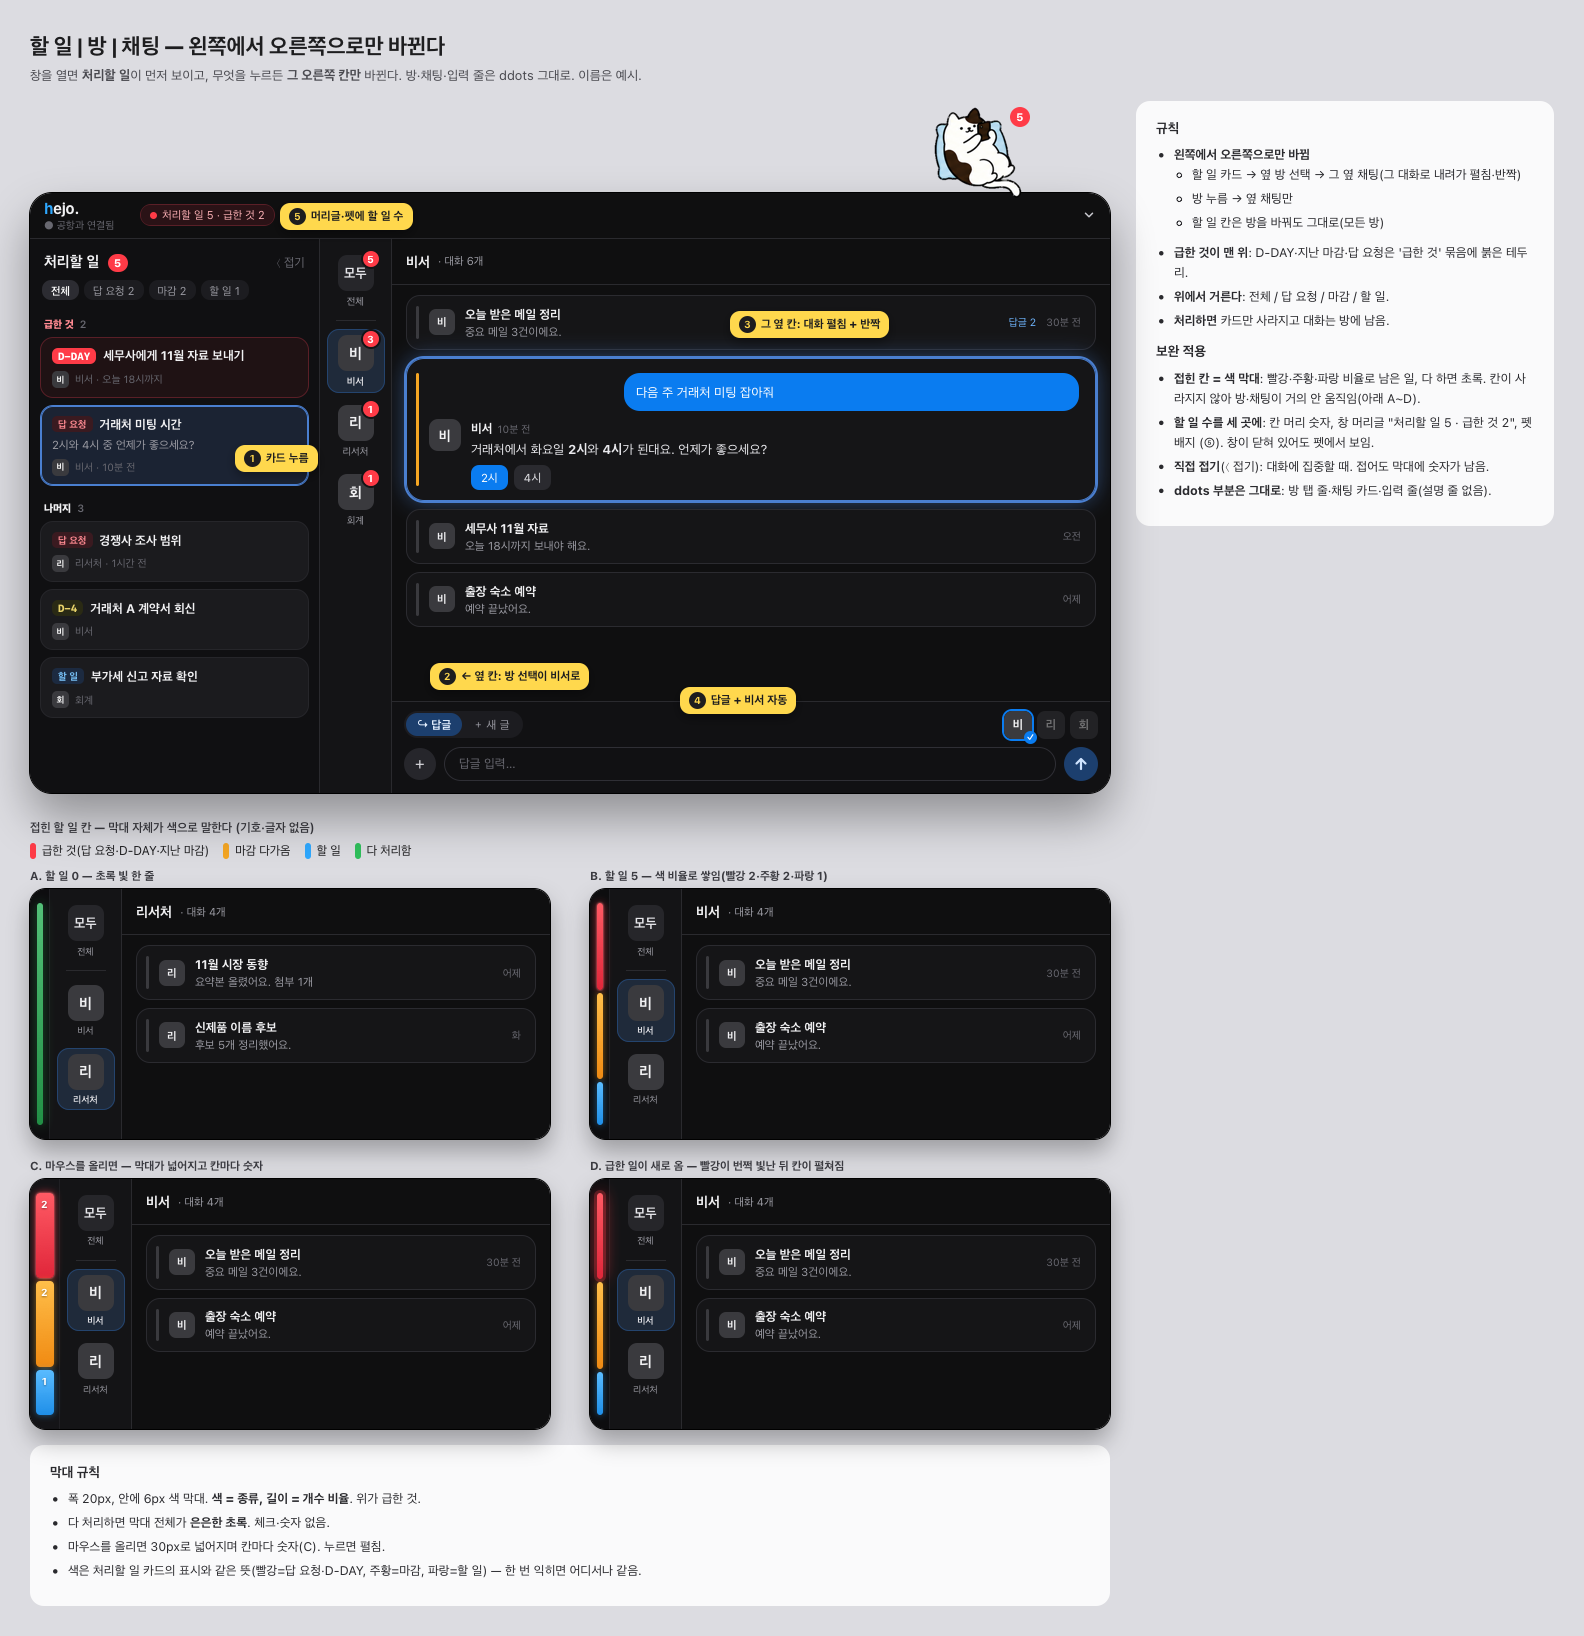
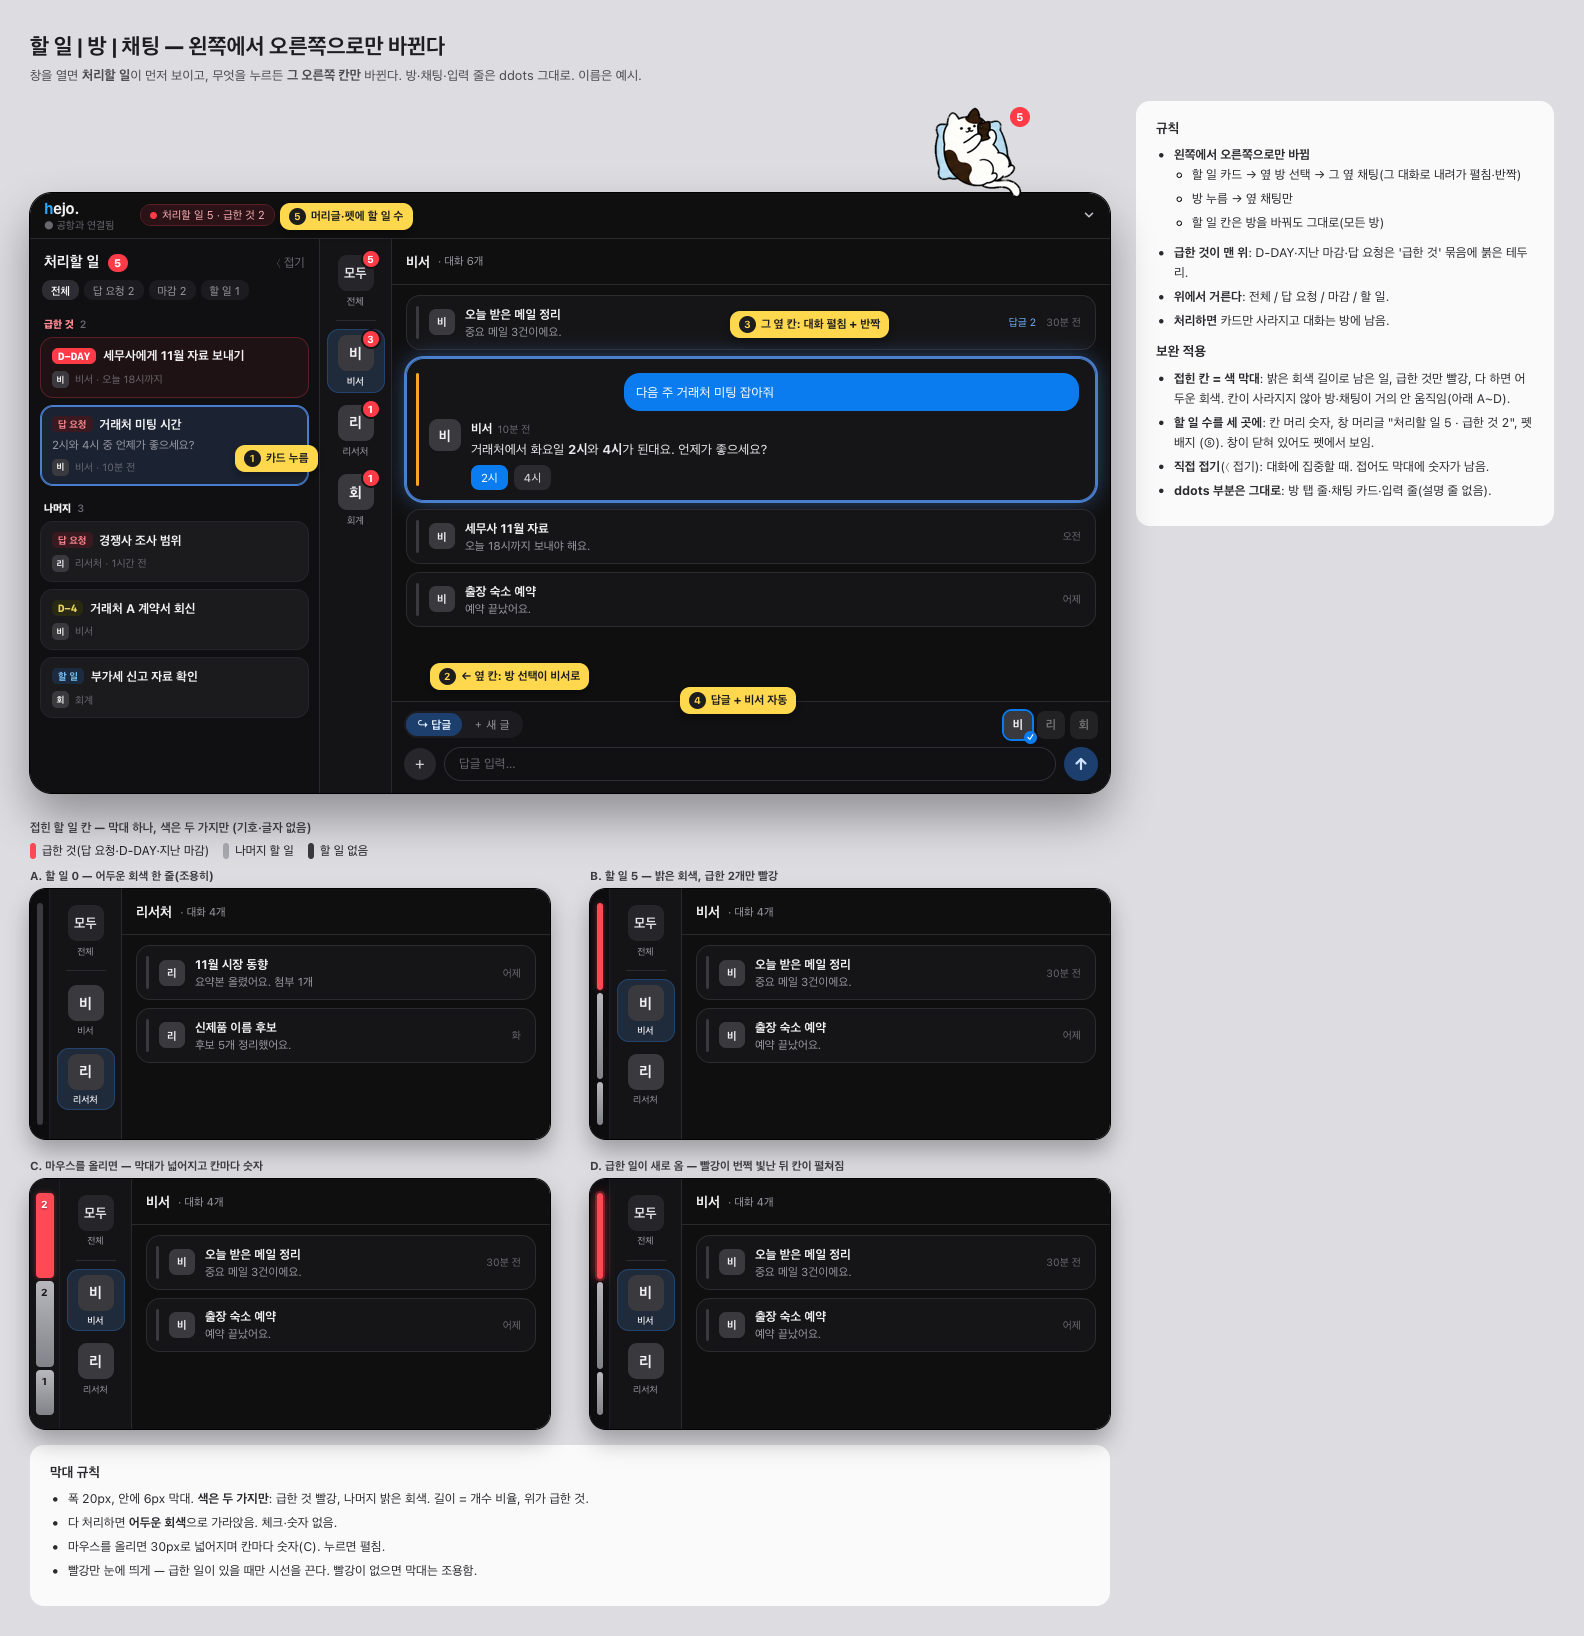
UI 제안 v14 보완: 막대 색을 빨강+회색 두 가지로 절제

diff --git a/docs/changes/HEJO-FOUNDATION-20261114/mockup/hejo-ui-v14-order.html b/docs/changes/HEJO-FOUNDATION-20261114/mockup/hejo-ui-v14-order.html
@@ -220,6 +220,13 @@
   .cr .pulse { box-shadow:0 0 0 3px rgba(255,59,71,.25), 0 0 18px rgba(255,59,71,.95) !important; }
   .keyc { display:flex; gap:14px; flex-wrap:wrap; font-size:12px; margin:4px 0 8px; } .keyc span { display:flex; align-items:center; gap:6px; } .keyc i { width:6px; height:16px; border-radius:3px; }
 </style>
+<style>
+  .cr .sg.org, .cr .sg.sky { background:linear-gradient(180deg,#c9c9d0,#8e8e96); box-shadow:none; opacity:.9; }
+  .cr .sg.red { background:#ff4a55; box-shadow:0 0 6px rgba(255,59,71,.45); }
+  .cr .sg.grn { background:#3a3a40; box-shadow:none; opacity:1; }
+  .cr .pulse { box-shadow:0 0 0 2px rgba(255,59,71,.3), 0 0 12px rgba(255,59,71,.8) !important; }
+  .cr.wide .sg.org, .cr.wide .sg.sky { color:#1d1d1f; text-shadow:none; }
+</style>
 </head>
 <body>
 <h1>할 일 | 방 | 채팅 — 왼쪽에서 오른쪽으로만 바뀐다</h1>
@@ -275,13 +282,13 @@
   <div class="call" style="left:250px;top:10px"><i>5</i>머리글·펫에 할 일 수</div>
 </div>
 
-<p class="cap" style="margin-top:26px">접힌 할 일 칸 — 막대 자체가 색으로 말한다 (기호·글자 없음)</p>
-<div class="keyc"><span><i style="background:#ff3b47"></i>급한 것(답 요청·D-DAY·지난 마감)</span><span><i style="background:#f5a623"></i>마감 다가옴</span><span><i style="background:#2ea8ff"></i>할 일</span><span><i style="background:#2fbf5b"></i>다 처리함</span></div>
+<p class="cap" style="margin-top:26px">접힌 할 일 칸 — 막대 하나, 색은 두 가지만 (기호·글자 없음)</p>
+<div class="keyc"><span><i style="background:#ff4a55"></i>급한 것(답 요청·D-DAY·지난 마감)</span><span><i style="background:#a8a8b0"></i>나머지 할 일</span><span><i style="background:#3a3a40"></i>할 일 없음</span></div>
 <div class="vgrid">
-  <div><div class="lab2">A. 할 일 0 — 초록 빛 한 줄</div><div class="mw"><div class="cr"><div class="bar2" style="height:100%"><div class="sg grn" style="flex:1"></div></div></div>
+  <div><div class="lab2">A. 할 일 0 — 어두운 회색 한 줄(조용히)</div><div class="mw"><div class="cr"><div class="bar2" style="height:100%"><div class="sg grn" style="flex:1"></div></div></div>
     <div class="strip"><div class="tab all"><div class="tile">모두</div>전체</div><div class="sline"></div><div class="tab"><div class="tile">비</div>비서</div><div class="tab sel"><div class="tile">리</div>리서처</div></div>
     <div class="conv2"><div class="colh"><b>리서처</b><small>· 대화 4개</small></div><div class="feed"><div class="fold"><div class="tile">리</div><div class="tx"><b>11월 시장 동향</b><small>요약본 올렸어요. 첨부 1개</small></div><span class="tm">어제</span></div><div class="fold"><div class="tile">리</div><div class="tx"><b>신제품 이름 후보</b><small>후보 5개 정리했어요.</small></div><span class="tm">화</span></div></div></div></div></div>
-  <div><div class="lab2">B. 할 일 5 — 색 비율로 쌓임(빨강 2·주황 2·파랑 1)</div><div class="mw"><div class="cr"><div class="bar2" style="height:100%"><div class="sg red" style="flex:2"></div><div class="sg org" style="flex:2"></div><div class="sg sky" style="flex:1"></div></div></div>
+  <div><div class="lab2">B. 할 일 5 — 밝은 회색, 급한 2개만 빨강</div><div class="mw"><div class="cr"><div class="bar2" style="height:100%"><div class="sg red" style="flex:2"></div><div class="sg org" style="flex:2"></div><div class="sg sky" style="flex:1"></div></div></div>
     <div class="strip"><div class="tab all"><div class="tile">모두</div>전체</div><div class="sline"></div><div class="tab sel"><div class="tile">비</div>비서</div><div class="tab"><div class="tile">리</div>리서처</div></div>
     <div class="conv2"><div class="colh"><b>비서</b><small>· 대화 4개</small></div><div class="feed"><div class="fold"><div class="tile">비</div><div class="tx"><b>오늘 받은 메일 정리</b><small>중요 메일 3건이에요.</small></div><span class="tm">30분 전</span></div><div class="fold"><div class="tile">비</div><div class="tx"><b>출장 숙소 예약</b><small>예약 끝났어요.</small></div><span class="tm">어제</span></div></div></div></div></div>
   <div><div class="lab2">C. 마우스를 올리면 — 막대가 넓어지고 칸마다 숫자</div><div class="mw"><div class="cr wide"><div class="bar2" style="height:100%"><div class="sg red" style="flex:2">2</div><div class="sg org" style="flex:2">2</div><div class="sg sky" style="flex:1">1</div></div></div>
@@ -292,10 +299,10 @@
     <div class="conv2"><div class="colh"><b>비서</b><small>· 대화 4개</small></div><div class="feed"><div class="fold"><div class="tile">비</div><div class="tx"><b>오늘 받은 메일 정리</b><small>중요 메일 3건이에요.</small></div><span class="tm">30분 전</span></div><div class="fold"><div class="tile">비</div><div class="tx"><b>출장 숙소 예약</b><small>예약 끝났어요.</small></div><span class="tm">어제</span></div></div></div></div></div>
 </div>
 <div class="legend" style="width:1080px;margin-top:16px"><h3>막대 규칙</h3><ul>
-<li>폭 20px, 안에 6px 색 막대. <b>색 = 종류, 길이 = 개수 비율</b>. 위가 급한 것.</li>
-<li>다 처리하면 막대 전체가 <b>은은한 초록</b>. 체크·숫자 없음.</li>
+<li>폭 20px, 안에 6px 막대. <b>색은 두 가지만</b>: 급한 것 빨강, 나머지 밝은 회색. 길이 = 개수 비율, 위가 급한 것.</li>
+<li>다 처리하면 <b>어두운 회색</b>으로 가라앉음. 체크·숫자 없음.</li>
 <li>마우스를 올리면 30px로 넓어지며 칸마다 숫자(C). 누르면 펼침.</li>
-<li>색은 처리할 일 카드의 표시와 같은 뜻(빨강=답 요청·D-DAY, 주황=마감, 파랑=할 일) — 한 번 익히면 어디서나 같음.</li>
+<li>빨강만 눈에 띄게 — 급한 일이 있을 때만 시선을 끈다. 빨강이 없으면 막대는 조용함.</li>
 </ul></div>
 </div>
 
@@ -312,7 +319,7 @@
 </ul>
 <h3>보완 적용</h3>
 <ul>
-<li><b>접힌 칸 = 색 막대</b>: 빨강·주황·파랑 비율로 남은 일, 다 하면 초록. 칸이 사라지지 않아 방·채팅이 거의 안 움직임(아래 A~D).</li>
+<li><b>접힌 칸 = 색 막대</b>: 밝은 회색 길이로 남은 일, 급한 것만 빨강, 다 하면 어두운 회색. 칸이 사라지지 않아 방·채팅이 거의 안 움직임(아래 A~D).</li>
 <li><b>할 일 수를 세 곳에</b>: 칸 머리 숫자, 창 머리글 "처리할 일 5 · 급한 것 2", 펫 배지 (⑤). 창이 닫혀 있어도 펫에서 보임.</li>
 <li><b>직접 접기</b>(⟨ 접기): 대화에 집중할 때. 접어도 막대에 숫자가 남음.</li>
 <li><b>ddots 부분은 그대로</b>: 방 탭 줄·채팅 카드·입력 줄(설명 줄 없음).</li>
